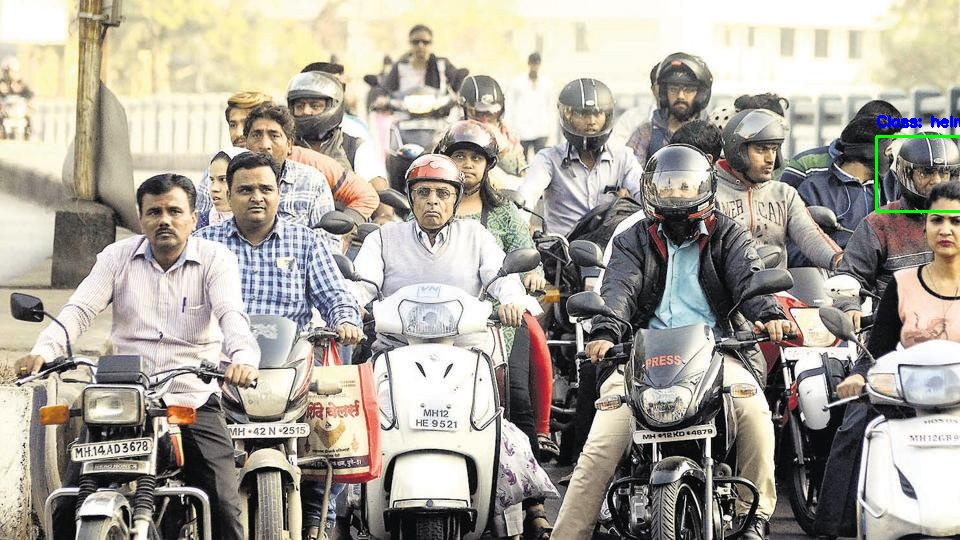
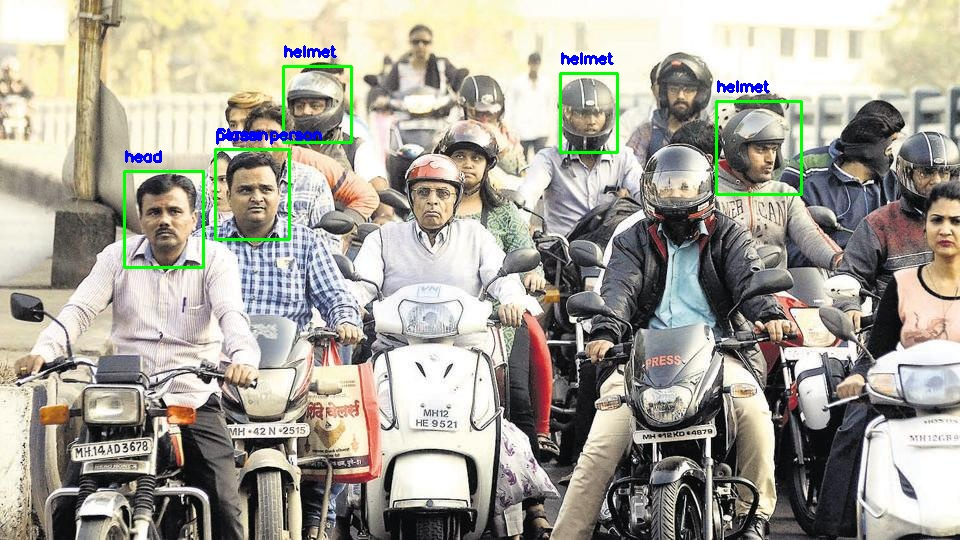
update bbox

diff --git a/visual_bbox.py b/visual_bbox.py
@@ -3,9 +3,9 @@ import numpy as np
 
 # Class names for bounding boxes
 # Define the paths and classes
-SOURCE_IMAGE_PATH = "artifacts/helmet.jpeg"
-TARGET_IMAGE_PATH = "artifacts/helmet3.jpeg"
-NAMES = ["head", "helmet"]
+SOURCE_IMAGE_PATH = "artifacts/helmet.jpeg"  # Your source image
+TARGET_IMAGE_PATH = "artifacts/helmet3.jpeg"  # Path to save the output image
+NAMES = ["head", "helmet", "person", "object"]  # Multiple classes to annotate
 
 # Global variables to store bounding box data
 bbox_list = []
@@ -25,14 +25,25 @@ def draw_bbox(event, x, y, flags, param):
     elif event == cv2.EVENT_MOUSEMOVE:
         if drawing:
             img_copy = img.copy()  # Copy the original image to show the current rectangle
+            for box in bbox_list:  # Redraw all previously drawn boxes
+                cv2.rectangle(img_copy, (box[0], box[1]), (box[2], box[3]), (0, 255, 0), 2)
+                cv2.putText(img_copy, f'{box[4]}', (box[0], box[1] - 10),
+                            cv2.FONT_HERSHEY_SIMPLEX, 0.5, (255, 0, 0), 2)
+
+            # Draw the current rectangle
             cv2.rectangle(img_copy, (start_x, start_y), (x, y), (0, 255, 0), 2)
 
     elif event == cv2.EVENT_LBUTTONUP:
         drawing = False
-        # Save the bounding box
+        # Save the bounding box with class name
         bbox_list.append((start_x, start_y, x, y, NAMES[current_class_idx]))  # Add class info
-        cv2.rectangle(img_copy, (start_x, start_y), (x, y), (0, 255, 0), 2)
-        # Put the class name label
+        # Draw all bounding boxes again, including the new one
+        img_copy = img.copy()
+        for box in bbox_list:
+            cv2.rectangle(img_copy, (box[0], box[1]), (box[2], box[3]), (0, 255, 0), 2)
+            cv2.putText(img_copy, f'{box[4]}', (box[0], box[1] - 10),
+                        cv2.FONT_HERSHEY_SIMPLEX, 0.5, (255, 0, 0), 2)
+        # Put the class name label for the newly drawn box
         cv2.putText(img_copy, f'Class: {NAMES[current_class_idx]}', (start_x, start_y - 10),
                     cv2.FONT_HERSHEY_SIMPLEX, 0.5, (255, 0, 0), 2)
 
@@ -54,6 +65,9 @@ while True:
         break
     elif key == ord('n'):  # Press 'n' to change class to the next one
         current_class_idx = (current_class_idx + 1) % len(NAMES)  # Cycle through the classes
+    elif key == ord('c'):  # Press 'c' to clear all bounding boxes
+        bbox_list = []
+        img_copy = img.copy()  # Reset image to original
 
 # Clean up and close
 cv2.destroyAllWindows()
